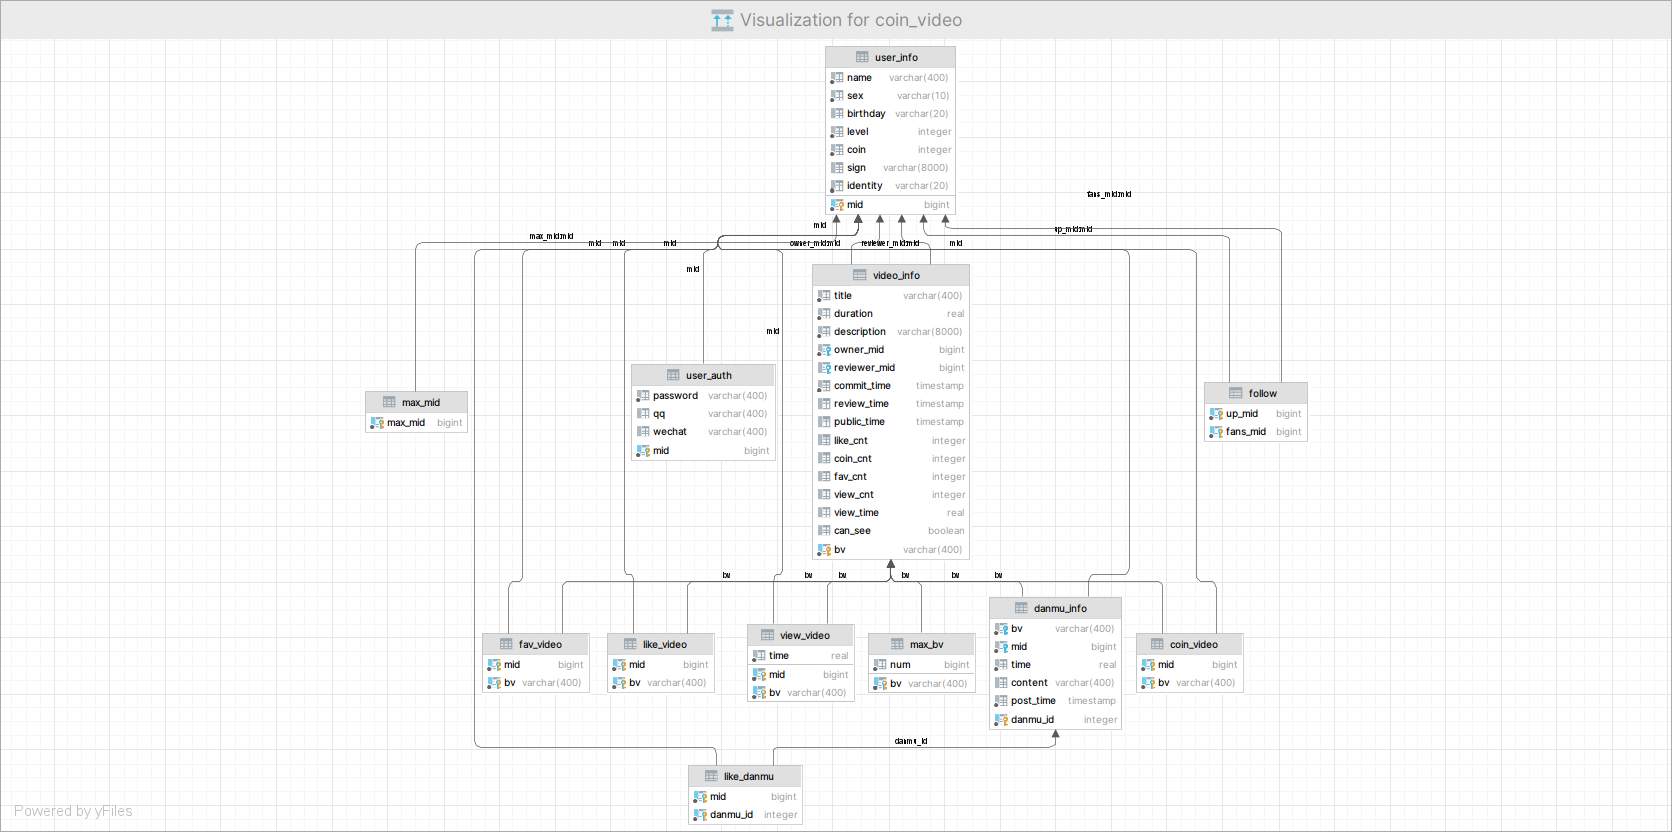
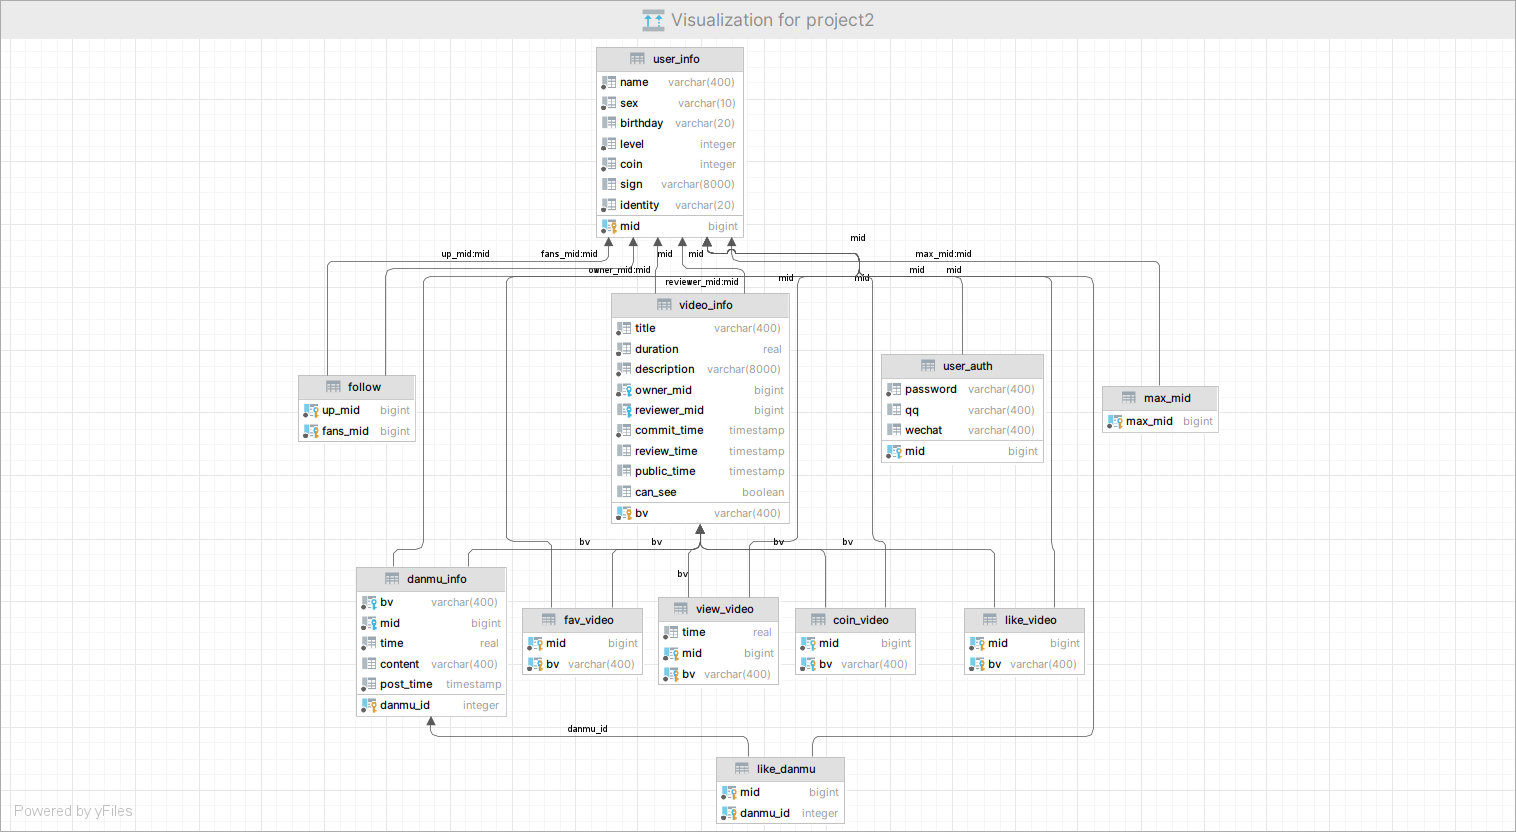
importData & postVideo

diff --git a/sustc-api/src/main/java/io/sustc/service/impl/DatabaseServiceImpl.java b/sustc-api/src/main/java/io/sustc/service/impl/DatabaseServiceImpl.java
@@ -143,14 +143,10 @@ public class DatabaseServiceImpl implements DatabaseService {
         }
 
 
-        long maxBv = 0;
-        String sql5 = "insert into video_info values(?,?,?,?,?,?,?,?,?,?,?,?,?,?,?)";
-        String sql6 = "insert into max_bv values(?, ?)";
-        try (PreparedStatement stmt = conn.prepareStatement(sql5);
-             PreparedStatement stmt2 = conn.prepareStatement(sql6)) {
+        String sql5 = "insert into video_info values(?,?,?,?,?,?,?,?,?,?)";
+        try (PreparedStatement stmt = conn.prepareStatement(sql5)) {
             long cnt = 0;
             for (VideoRecord video : videoRecords) {
-                maxBv = Math.max(maxBv, Long.parseLong(video.getBv().substring(2)));
                 stmt.setString(1, video.getBv());
                 stmt.setString(2, video.getTitle());
                 stmt.setFloat(3, video.getDuration());
@@ -160,12 +156,7 @@ public class DatabaseServiceImpl implements DatabaseService {
                 stmt.setTimestamp(7, video.getCommitTime());
                 stmt.setTimestamp(8, video.getReviewTime());
                 stmt.setTimestamp(9, video.getPublicTime());
-                stmt.setInt(10, video.getLike().length);
-                stmt.setInt(11, video.getCoin().length);
-                stmt.setInt(12, video.getFavorite().length);
-                stmt.setInt(13, 0);
-                stmt.setInt(14, 0);
-                stmt.setBoolean(15, video.getReviewer() != null);
+                stmt.setBoolean(10, video.getReviewer() != null);
                 stmt.addBatch();
                 cnt++;
                 if (cnt % BATCH_SIZE == 0) {
@@ -176,14 +167,6 @@ public class DatabaseServiceImpl implements DatabaseService {
             if (cnt % BATCH_SIZE != 0) {
                 stmt.executeBatch();
                 stmt.clearBatch();
-            }
-            if (maxBv != 0) {
-                stmt2.setString(1, "BV" + maxBv);
-                stmt2.setLong(2, maxBv);
-                stmt2.addBatch();
-                stmt2.executeBatch();
-                stmt2.clearBatch();
-                stmt2.close();
             }
             conn.commit();
         } catch (Exception e) {
@@ -303,13 +286,13 @@ public class DatabaseServiceImpl implements DatabaseService {
         try (PreparedStatement stmt = conn.prepareStatement(sql10)) {
             long cnt = 0;
             for (VideoRecord video : videoRecords) {
-                long[] view = video.getViewerMids();
-                float[] viewTime = video.getViewTime();
+                long[] viewer = video.getViewerMids();
+                float[] time = video.getViewTime();
                 String bv = video.getBv();
-                for (int i = 0; i < view.length; i++) {
-                    stmt.setLong(1, view[i]);
+                for (int i = 0; i < viewer.length; i++) {
+                    stmt.setLong(1, viewer[i]);
                     stmt.setString(2, bv);
-                    stmt.setFloat(3, viewTime[i]);
+                    stmt.setFloat(3, time[i]);
                     stmt.addBatch();
                     cnt++;
                     if (cnt % BATCH_SIZE == 0) {
@@ -336,16 +319,17 @@ public class DatabaseServiceImpl implements DatabaseService {
             }
         }
 
-        String sql11 = "insert into danmu_info (bv , mid , time, content , post_time) values ( ?, ?, ?, ? ,? )";
+        String sql11 = "insert into danmu_info (danmu_id , bv , mid , time, content , post_time) values ( ? , ?, ?, ?, ? ,? )";
         try(PreparedStatement stmt = conn.prepareStatement(sql11)){
             long cnt = 0;
             for (int i = 0; i < danmuRecords.size(); i++) {
                 DanmuRecord danmu =danmuRecords.get(i);
-                stmt.setString(1,danmu.getBv());
-                stmt.setLong(2,danmu.getMid());
-                stmt.setFloat(3,danmu.getTime());
-                stmt.setString(4,danmu.getContent());
-                stmt.setTimestamp(5,danmu.getPostTime());
+                stmt.setLong(1,cnt+1);
+                stmt.setString(2,danmu.getBv());
+                stmt.setLong(3,danmu.getMid());
+                stmt.setFloat(4,danmu.getTime());
+                stmt.setString(5,danmu.getContent());
+                stmt.setTimestamp(6,danmu.getPostTime());
                 cnt++;
                 stmt.addBatch();
                 if (cnt % BATCH_SIZE == 0) {
@@ -420,7 +404,7 @@ public class DatabaseServiceImpl implements DatabaseService {
     public void truncate() {
         // You can use the default truncate script provided by us in most cases,
         // but if it doesn't work properly, you may need to modify it.
-        String[] tableName = {"like_danmu", "view_video", "like_video", "fav_video", "coin_video", "max_bv",
+        String[] tableName = {"like_danmu", "view_video", "like_video", "fav_video", "coin_video",
                 "danmu_info", "video_info", "follow", "max_mid", "user_auth", "user_info"};
         try (Connection conn = dataSource.getConnection();
              Statement stmt = conn.createStatement()) {

diff --git a/sustc-api/src/main/java/io/sustc/service/impl/VideoServiceImpl.java b/sustc-api/src/main/java/io/sustc/service/impl/VideoServiceImpl.java
@@ -30,14 +30,13 @@ public class VideoServiceImpl implements VideoService {
                 return null;
             }
 
-            String dateStr = new Date().toString();
-            Timestamp ts = Timestamp.valueOf(dateStr);
+            Timestamp ts = new Timestamp(System.currentTimeMillis());
             if (req.getTitle() == null || req.getTitle().equals("") || req.getDuration() < 10
                 || ts.after(req.getPublicTime())) {
                 return null;
             }
-            String sql = "select * from video_info where title = ? and owner_mid = ?;";
-            PreparedStatement stmt = conn.prepareStatement(sql);
+            String sql1 = "select * from video_info where title = ? and owner_mid = ?";
+            PreparedStatement stmt = conn.prepareStatement(sql1);
             stmt.setString(1, req.getTitle());
             stmt.setLong(2, auth.getMid());
             ResultSet rs = stmt.executeQuery();
@@ -47,24 +46,17 @@ public class VideoServiceImpl implements VideoService {
                 return null;
             }
 
-            sql = "select num from max_bv;";
-            stmt = conn.prepareStatement(sql);
+            String sql2 = "select count(*) from video_info";
+            stmt = conn.prepareStatement(sql2);
             rs = stmt.executeQuery();
             rs.next();
             long num = rs.getLong(1);
-            String bv = "bv" + (num + 1);
+            String bv = "BV" + (num + 1);
 
-            sql = "update max_bv set bv = ?, num = ? where num = ?";
-            stmt = conn.prepareStatement(sql);
-            stmt.setString(1, bv);
-            stmt.setLong(2, num);
-            stmt.setLong(3, num + 1);
-            stmt.executeUpdate();
-            stmt.close();
 
-            sql = "insert into table video_info (bv, title, duration, description, owner_mid, commit_time, public_time) " +
+            String sql3 = "insert into video_info (bv, title, duration, description, owner_mid, commit_time, public_time) " +
                     "values (?,?,?,?,?,?,?)";
-            stmt = conn.prepareStatement(sql);
+            stmt = conn.prepareStatement(sql3);
             stmt.setString(1, bv);
             stmt.setString(2, req.getTitle());
             stmt.setFloat(3, req.getDuration());
@@ -74,31 +66,11 @@ public class VideoServiceImpl implements VideoService {
             stmt.setTimestamp(7, req.getPublicTime());
             stmt.executeUpdate();
 
-            sql = "insert into table likev_cnt (bv) values (?)";
-            stmt = conn.prepareStatement(sql);
-            stmt.setString(1, bv);
-            stmt.executeUpdate();
-
-            sql = "insert into table coinv_cnt (bv) values (?)";
-            stmt = conn.prepareStatement(sql);
-            stmt.setString(1, bv);
-            stmt.executeUpdate();
-
-            sql = "insert into table favv_cnt (bv) values (?)";
-            stmt = conn.prepareStatement(sql);
-            stmt.setString(1, bv);
-            stmt.executeUpdate();
-
-            sql = "insert into table viewv_cnt (bv) values (?)";
-            stmt = conn.prepareStatement(sql);
-            stmt.setString(1, bv);
-            stmt.executeUpdate();
-
             rs.close();
             stmt.close();
             return bv;
         } catch (Exception e) {
-            System.out.println(e.getMessage());
+            e.printStackTrace();
             return null;
         }
     }
@@ -168,11 +140,31 @@ public class VideoServiceImpl implements VideoService {
             String qq = auth.getQq();
             String wechat = auth.getWechat();
 
-            // toDo: complete this method
-
+            if ((pw == null || pw.equals("")) &&
+                    (qq == null || qq.equals("")) &&
+                    (wechat == null || wechat.equals(""))) {
+                rs.close();
+                stmt.close();
+                return false;
+            }
+            if (pw != null && !pw.equals("") && !pw.equals(pw0)){
+                rs.close();
+                stmt.close();
+                return false;
+            }
+            if (qq != null && !qq.equals("") && !qq.equals(qq0)){
+                rs.close();
+                stmt.close();
+                return false;
+            }
+            if (wechat != null && !wechat.equals("") && !wechat.equals(wechat0)){
+                rs.close();
+                stmt.close();
+                return false;
+            }
             rs.close();
             stmt.close();
-            return false;
+            return true;
         } catch (Exception e) {
             System.out.println(e.getMessage());
             return false;

diff --git a/sustc-runner/src/main/java/io/sustc/benchmark/BenchmarkService.java b/sustc-runner/src/main/java/io/sustc/benchmark/BenchmarkService.java
@@ -28,7 +28,7 @@ public class BenchmarkService {
     @Autowired
     private DatabaseService databaseService;
 
-    @BenchmarkStep(order = 1, timeout = 10, description = "Import data")
+    @BenchmarkStep(order = 1, timeout = 100, description = "Import data")
     @SneakyThrows
     public BenchmarkResult importData() {
         val dataDir = Paths.get(benchmarkConfig.getDataPath(), BenchmarkConstants.IMPORT_DATA_PATH);

diff --git a/Report.md b/Report.md
@@ -29,7 +29,7 @@
 
 ### 3. Table Design Description
 
-We design **12** tables for this project, **10** of them are basic tables and others are help tables to increase efficiency. A brief description of each table is as follows.
+We design **11** tables for this project, **10** of them are basic tables and others are help tables to increase efficiency. A brief description of each table is as follows.
 
 **The 10 tables as below are basic tables.**
 
@@ -39,7 +39,7 @@ We design **12** tables for this project, **10** of them are basic tables and ot
 
 **follow**:  `up_mid` and `fans_mid` is the mid of follower and followee
 
-**video_info**: contains 10 basic columns (including `bv`, `title`, `duration`, `description`, `owner_mid`, `reviewer_mid`, `commit_time`, `review_time`, `public_time`) and 6 help columns (including `like_cnt`, `coin_cnt`, `fav_cnt`, `view_cnt`, `view_time` and `can_see`) of information of a video
+**video_info**: contains 10 basic columns (including `bv`, `title`, `duration`, `description`, `owner_mid`, `reviewer_mid`, `commit_time`, `review_time`, `public_time`) of information of a video
 
 **like_video**: 2 columns `mid` and `bv` is the mid and bv of the user and the video be liked, also has a constraint `primary key (bv, mid)`
 
@@ -49,11 +49,9 @@ We design **12** tables for this project, **10** of them are basic tables and ot
 
 **like_danmu**: records a user (with mid `mid`) liked a danmu (with id `danmu_id`)
 
-**The 2 tables as below are help tables mentioned above.**
+**The 1 table as below are help tables mentioned above.**
 
 **max_id**: records the max value of `mid` exists now, in order to increase the efficiency of register a new user (we only need to use (`max_mid` + 1) to be the new user's mid)
-
-**max_bv**: records the max number after `"bv"` and its related `bv`, this table is used to add a new video fast
 
 ### 4. Database Privilege
 
